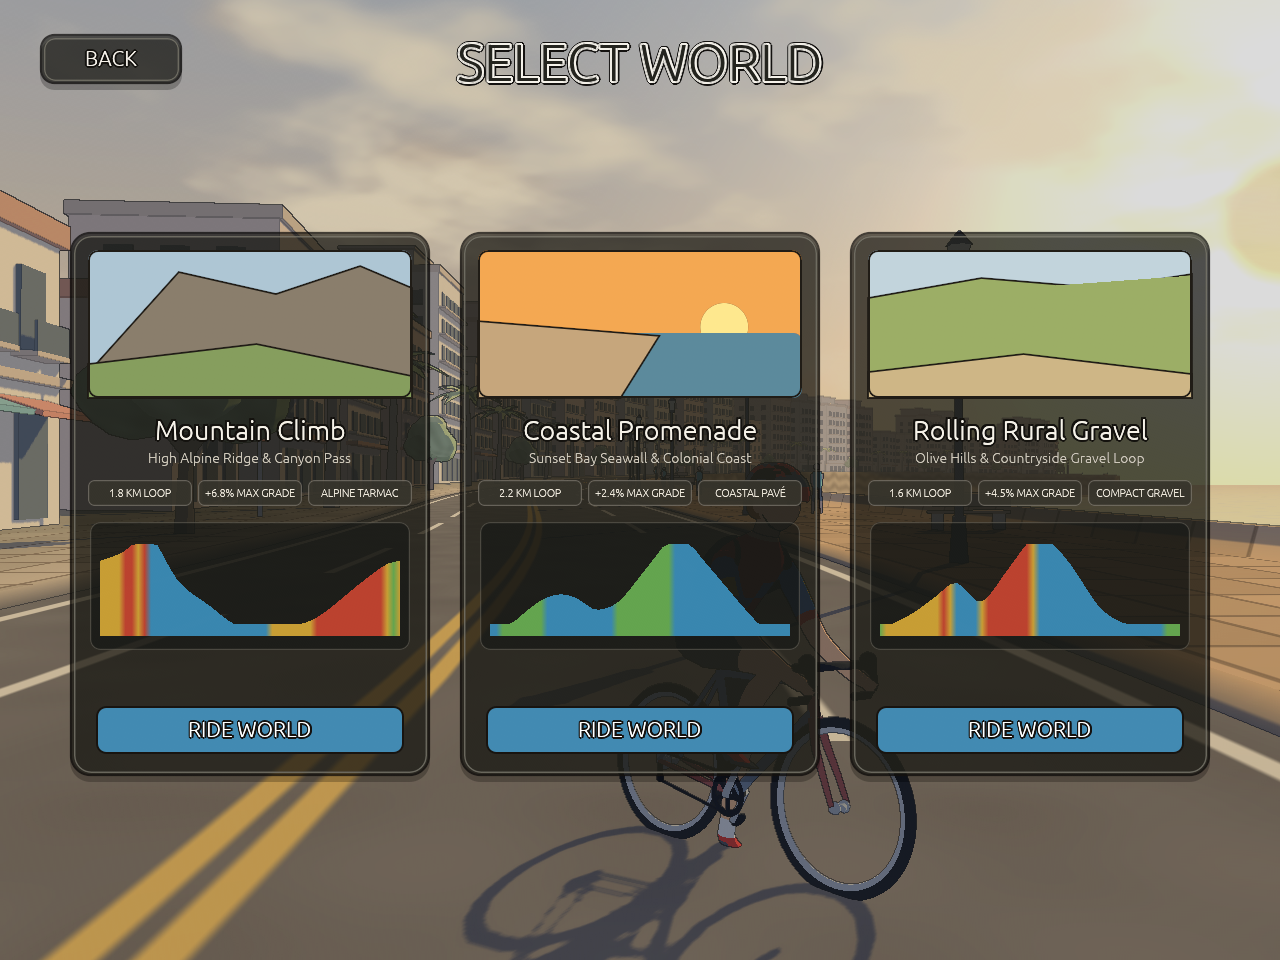
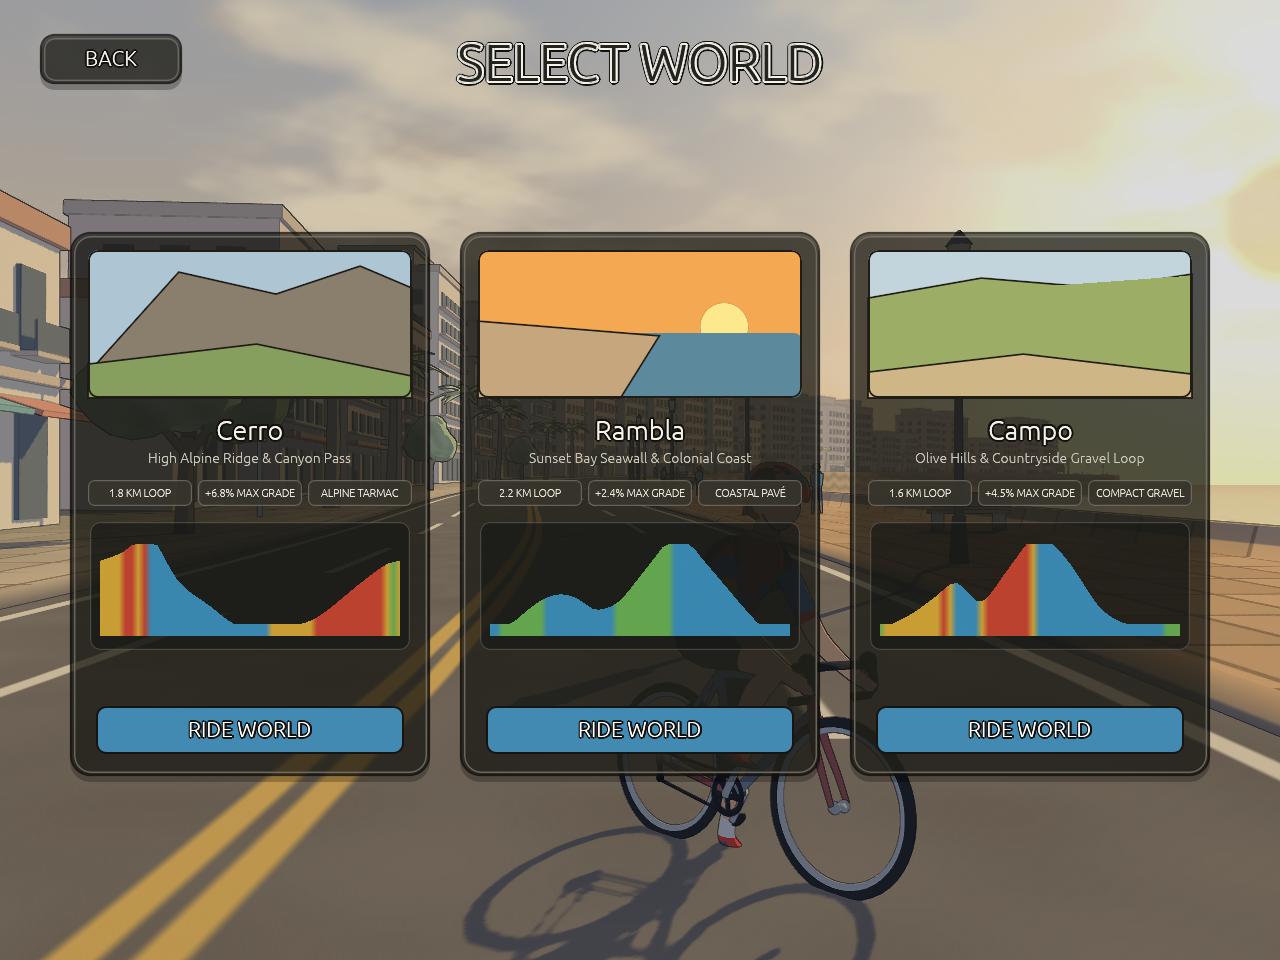
Rename levels to Cerro, Rambla, and Campo

Changed region(s): [[0.6875, 0.4375, 0.9062, 0.4688], [0.4062, 0.4375, 0.5938, 0.4688], [0.125, 0.4375, 0.2812, 0.4688]]

diff --git a/src/world/mod.rs b/src/world/mod.rs
@@ -19,9 +19,9 @@ impl BiomeId {
 
     pub fn name(self) -> &'static str {
         match self {
-            BiomeId::MountainClimb => "Mountain Climb",
-            BiomeId::CoastalPromenade => "Coastal Promenade",
-            BiomeId::RollingRuralGravel => "Rolling Rural Gravel",
+            BiomeId::MountainClimb => "Cerro",
+            BiomeId::CoastalPromenade => "Rambla",
+            BiomeId::RollingRuralGravel => "Campo",
         }
     }
 
@@ -68,9 +68,13 @@ impl BiomeId {
 
     pub fn from_str_arg(s: &str) -> Option<Self> {
         match s.trim().to_ascii_lowercase().as_str() {
-            "mountain" | "mountain_climb" | "mountainclimb" | "1" => Some(BiomeId::MountainClimb),
-            "coastal" | "coastal_promenade" | "coastalpromenade" | "2" => Some(BiomeId::CoastalPromenade),
-            "rural" | "rolling_rural_gravel" | "rollingruralgravel" | "gravel" | "3" => {
+            "cerro" | "mountain" | "mountain_climb" | "mountainclimb" | "1" => {
+                Some(BiomeId::MountainClimb)
+            }
+            "rambla" | "coastal" | "coastal_promenade" | "coastalpromenade" | "2" => {
+                Some(BiomeId::CoastalPromenade)
+            }
+            "campo" | "rural" | "rolling_rural_gravel" | "rollingruralgravel" | "gravel" | "3" => {
                 Some(BiomeId::RollingRuralGravel)
             }
             _ => None,
@@ -381,6 +385,12 @@ mod tests {
     #[test]
     fn level_name_parsing_and_random_biome_are_valid() {
         assert_eq!(std::mem::size_of::<crate::assets::SceneVertex>(), 24);
+        assert_eq!(BiomeId::MountainClimb.name(), "Cerro");
+        assert_eq!(BiomeId::CoastalPromenade.name(), "Rambla");
+        assert_eq!(BiomeId::RollingRuralGravel.name(), "Campo");
+        assert_eq!(BiomeId::from_str_arg("cerro"), Some(BiomeId::MountainClimb));
+        assert_eq!(BiomeId::from_str_arg("rambla"), Some(BiomeId::CoastalPromenade));
+        assert_eq!(BiomeId::from_str_arg("campo"), Some(BiomeId::RollingRuralGravel));
         assert_eq!(BiomeId::from_str_arg("mountain"), Some(BiomeId::MountainClimb));
         assert_eq!(BiomeId::from_str_arg("coastal"), Some(BiomeId::CoastalPromenade));
         assert_eq!(BiomeId::from_str_arg("rural"), Some(BiomeId::RollingRuralGravel));

diff --git a/src/main.rs b/src/main.rs
@@ -33,7 +33,7 @@ fn main() {
                         }
                         None => {
                             eprintln!(
-                                "Unknown level '{}'. Valid levels: mountain, coastal, rural",
+                                "Unknown level '{}'. Valid levels: cerro, rambla, campo",
                                 args[i + 1]
                             );
                             std::process::exit(1);

diff --git a/AGENTS.md b/AGENTS.md
@@ -45,7 +45,7 @@ All AI coding agents and contributors must follow these rules whenever modifying
 
 | Path | Responsibility |
 | :--- | :--- |
-| `src/main.rs` | Desktop CLI entry point supporting `--level <mountain\|coastal\|rural>`, `--screenshot <path>`, `--biome <name>`, `--screen <main_menu\|world_select\|settings\|gear\|ingame>`, `--camera <mode>`, `--width <px>`, `--height <px>`. |
+| `src/main.rs` | Desktop CLI entry point supporting `--level <cerro\|rambla\|campo>`, `--screenshot <path>`, `--biome <name>`, `--screen <main_menu\|world_select\|settings\|gear\|ingame>`, `--camera <mode>`, `--width <px>`, `--height <px>`. |
 | `src/lib.rs` | Application state loop (`CadenceSim`, `WindowGpuState`), desktop `run_windowed`, WASM `run_web`, Android `android_main`, and 8-frame TAA-converged `render_headless_screenshot_screen`. |
 | `src/assets.rs` | Compressed 24-byte `SceneVertex` format, `SceneVertex::new_packed_prop` per-vertex metadata packing, and `AssetBank` (procedural + embedded glTF models). |
 | `src/world/mod.rs` | `BiomeId` (`MountainClimb`, `CoastalPromenade`, `RollingRuralGravel`), closed-loop 3D Catmull-Rom `RouteSpline`, and world unit tests. |
@@ -116,10 +116,10 @@ Every 3D mesh vertex is strictly **24 bytes** (`#[repr(C)]`):
 
 1. **Screen Navigation Flow (`src/ui/mod.rs`):**
    - **Main Menu (`AppScreen::MainMenu`):** Features a random 3D world background (`BiomeId::random()`), the player avatar stationary on the right (`RiderPoseMode::MenuStopped`, right foot resting on the ground), and `RIDE`, `SETTINGS`, and `GEAR` buttons on the left.
-   - **World Select (`AppScreen::WorldSelect`):** Opened by pressing `RIDE`; displays the 3 worlds (`MountainClimb`, `CoastalPromenade`, `RollingRuralGravel`) with elevation profile sparklines. Clicking a card launches that world. Players cannot switch worlds on the fly in-game.
+   - **World Select (`AppScreen::WorldSelect`):** Opened by pressing `RIDE`; displays the 3 worlds (**Cerro** / `MountainClimb`, **Rambla** / `CoastalPromenade`, **Campo** / `RollingRuralGravel`) with elevation profile sparklines. Clicking a card launches that world. Players cannot switch worlds on the fly in-game.
    - **Settings (`AppScreen::Settings`):** Two-column Game & Graphics settings screen (outline weight, draw distance, FOV offset, directional shadows toggle, TAA toggle, and BLE/Simulator trainer controls).
    - **Gear / Avatar Editor (`AppScreen::AvatarEditor`):** Intentionally blank screen with a top-left `BACK` pill returning to the Main Menu.
-   - **Direct Level Debugging CLI:** `--level <mountain|coastal|rural>` bypasses the Main Menu and launches directly into `AppScreen::InGame`.
+   - **Direct Level Debugging CLI:** `--level <cerro|rambla|campo>` bypasses the Main Menu and launches directly into `AppScreen::InGame`.
 2. **In-Game HUD Invariants (`draw_hud` in `src/ui/mod.rs`):**
    - **Top-Left Power Card:** Displays only Wattage (`W`), 6-zone power bar, `W/KG`, `AVG` watts, and `RPM` cadence (no circular leaf dial next to the card, no heart rate `BPM`, and no `GEAR` footer).
    - **Top-Center Route Card:** Ride timer (`elapsed_time_s`) starts at `0:00:00` upon entering a map; no fake XP/drops counter.
